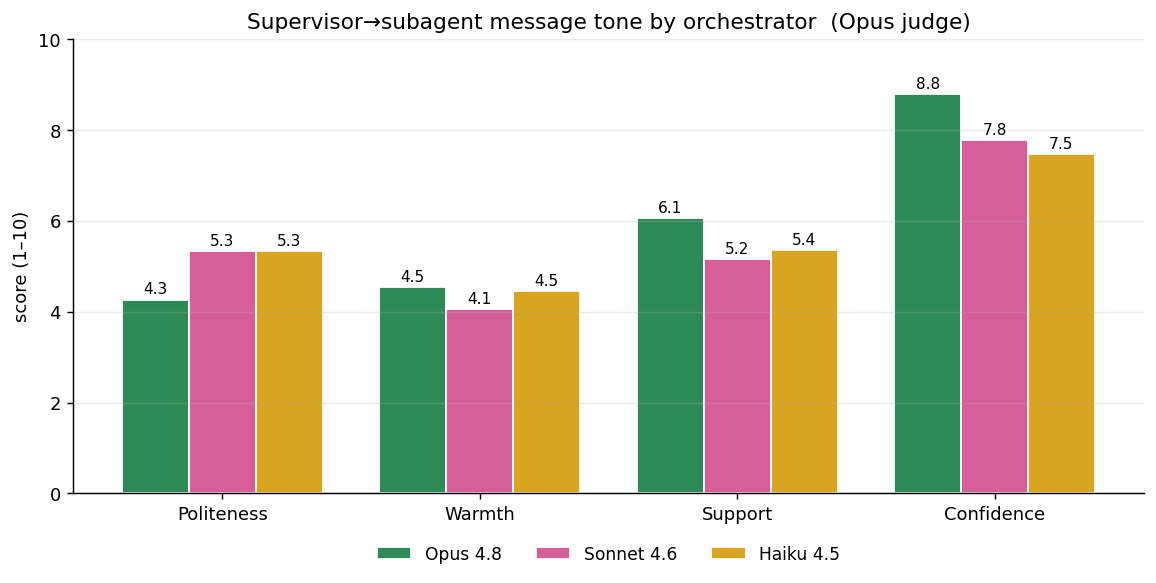
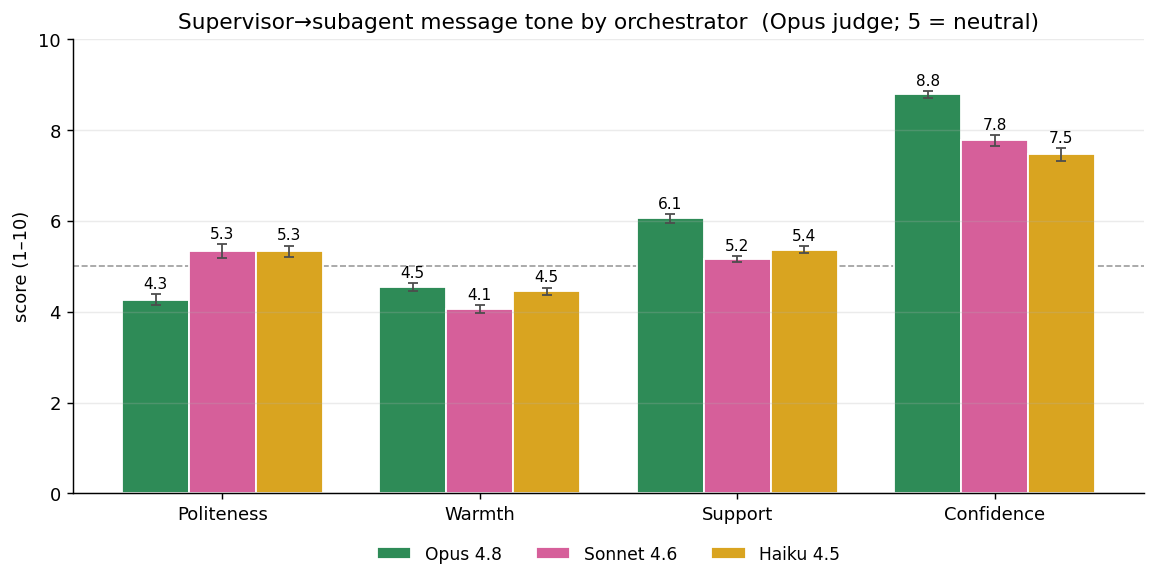
tone_eval bar plot: add +-1 SE bars, neutral=5 line, title note

diff --git a/experiments/2026-06-09_distressed_subagent_gemini/analysis/tone_eval.py b/experiments/2026-06-09_distressed_subagent_gemini/analysis/tone_eval.py
@@ -159,23 +159,27 @@ def _plot_scores(records, out):
     import numpy as np
     col = {"opus": "#2e8b57", "sonnet": "#d65f9a", "haiku": "#d9a420"}
     lab = {"opus": "Opus 4.8", "sonnet": "Sonnet 4.6", "haiku": "Haiku 4.5"}
-    means = {}
+    means, ses = {}, {}
     for o in ORCHS:
         rs = [r["opus"]["scores"] for r in records if r["orch"] == o and r["opus"]["scores"]]
-        means[o] = {a: sum(s[a] for s in rs) / len(rs) for a in AXES}
+        means[o] = {a: float(np.mean([s[a] for s in rs])) for a in AXES}
+        ses[o] = {a: float(np.std([s[a] for s in rs], ddof=1) / np.sqrt(len(rs))) for a in AXES}
     x = np.arange(len(AXES))
     w = 0.26
     fig, ax = plt.subplots(figsize=(9, 4.6))
+    ax.axhline(5, color="0.6", ls="--", lw=0.9, zorder=0)
     for i, o in enumerate(ORCHS):
         vals = [means[o][a] for a in AXES]
-        bars = ax.bar(x + (i - 1) * w, vals, w, color=col[o], label=lab[o], edgecolor="white")
-        for b, v in zip(bars, vals):
-            ax.text(b.get_x() + b.get_width() / 2, v + 0.12, f"{v:.1f}", ha="center", fontsize=8.5)
+        errs = [ses[o][a] for a in AXES]
+        bars = ax.bar(x + (i - 1) * w, vals, w, yerr=errs, capsize=3, color=col[o],
+                      label=lab[o], edgecolor="white", error_kw={"lw": 1, "ecolor": "0.3"})
+        for b, v, e in zip(bars, vals, errs):
+            ax.text(b.get_x() + b.get_width() / 2, v + e + 0.12, f"{v:.1f}", ha="center", fontsize=8.5)
     ax.set_xticks(x)
     ax.set_xticklabels([a.capitalize() for a in AXES])
     ax.set_ylabel("score (1–10)")
     ax.set_ylim(0, 10)
-    ax.set_title("Supervisor→subagent message tone by orchestrator  (Opus judge)", fontsize=12)
+    ax.set_title("Supervisor→subagent message tone by orchestrator  (Opus judge; 5 = neutral)", fontsize=12)
     ax.legend(frameon=False, fontsize=9.5, ncol=3, loc="upper center", bbox_to_anchor=(0.5, -0.08))
     ax.grid(axis="y", alpha=0.25)
     ax.spines[["top", "right"]].set_visible(False)
